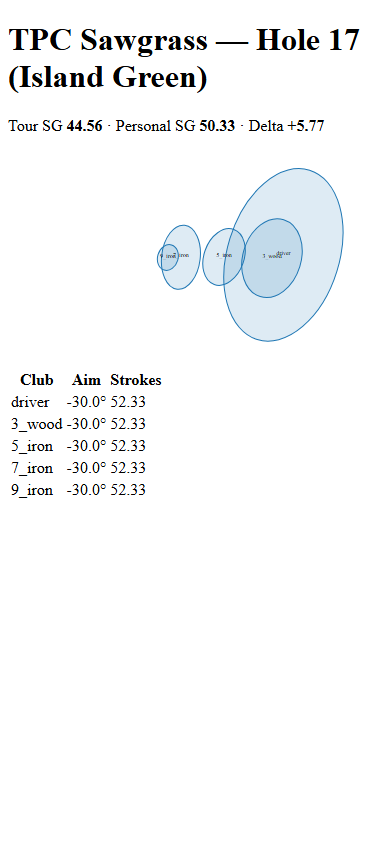
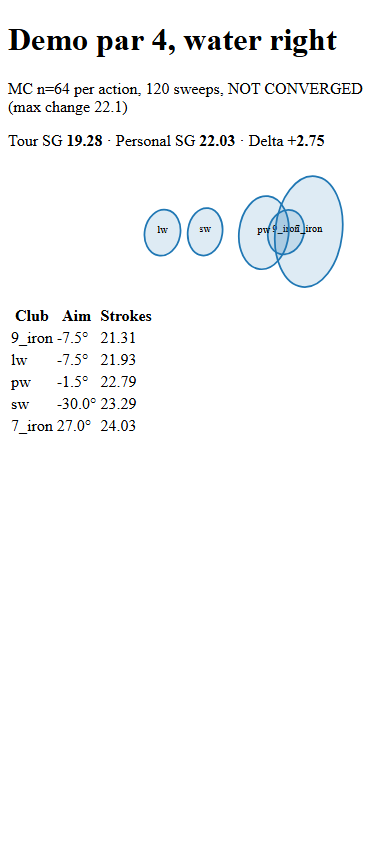
feat(sg): green-terminal solve and convergence line in the strategy view (#14572)

Changed region(s): [[0.0, 0.0308, 0.9231, 0.4313], [0.0308, 0.3697, 0.4, 0.5853]]

diff --git a/src/shared/python/sg_optimizer/strategy_view.py b/src/shared/python/sg_optimizer/strategy_view.py
@@ -5,6 +5,7 @@ from __future__ import annotations
 import html
 from dataclasses import dataclass
 
+from src.shared.python.sg_optimizer.mdp.value_iteration import SolveResult
 from src.shared.python.sg_optimizer.shot_model.outcome import ShotOutcomeModel
 from src.shared.python.sg_optimizer.shot_model.player_profile import PlayerProfile
 from src.shared.python.sg_optimizer.shot_options import ShotOption, shot_options
@@ -13,6 +14,9 @@ from src.shared.python.sg_optimizer.strategy import (
     StrategyProblem,
     solve_mdp,
 )
+
+
+_SOLVE_TOL = 1e-3  # HoleMDP.solve default tolerance
 
 
 @dataclass(frozen=True)
@@ -27,6 +31,10 @@ class StrategyView:
     tour_strokes: float
     personal_strokes: float | None
     options: tuple[ShotOption, ...]
+    n_samples: int = 0
+    iterations: int = 0
+    residual: float = 0.0
+    converged: bool = True
 
     @property
     def delta(self) -> float | None:
@@ -48,15 +56,34 @@ def build_view(
 ) -> StrategyView:
     """Solve the tour baseline and (unless ``quick_tour``) the player."""
     tour = PlayerProfile(name="tour", baseline=profile.baseline)
-    t_mdp, t_val = solve_mdp(problem, tour, None, settings)
-    tour_strokes = t_mdp.expected_strokes(problem.start, t_val)
+    t_mdp, t_res = solve_mdp(problem, tour, None, settings)
+    tour_strokes = t_mdp.expected_strokes(problem.start, t_res.value)
     if quick_tour:
-        opts = shot_options(t_mdp, t_val, problem.start, top=top)
-        return StrategyView(hole, tour_strokes, None, opts)
-    p_mdp, p_val = solve_mdp(problem, profile, model, settings)
-    opts = shot_options(p_mdp, p_val, problem.start, model=model, top=top)
+        opts = shot_options(t_mdp, t_res.value, problem.start, top=top)
+        return _view(hole, tour_strokes, None, opts, t_res, settings)
+    p_mdp, p_res = solve_mdp(problem, profile, model, settings)
+    opts = shot_options(p_mdp, p_res.value, problem.start, model=model, top=top)
+    personal = p_mdp.expected_strokes(problem.start, p_res.value)
+    return _view(hole, tour_strokes, personal, opts, p_res, settings)
+
+
+def _view(
+    hole: str,
+    tour: float,
+    personal: float | None,
+    options: tuple[ShotOption, ...],
+    result: SolveResult,
+    settings: SolveSettings,
+) -> StrategyView:
     return StrategyView(
-        hole, tour_strokes, p_mdp.expected_strokes(problem.start, p_val), opts
+        hole,
+        tour,
+        personal,
+        options,
+        n_samples=settings.n_samples,
+        iterations=result.iterations,
+        residual=result.delta,
+        converged=result.delta < _SOLVE_TOL,
     )
 
 
@@ -70,12 +97,21 @@ def _numbers(view: StrategyView) -> tuple[str, str, str]:
     return f"{view.tour_strokes:.2f}", personal, delta
 
 
+def _solve_note(view: StrategyView) -> str:
+    state = "converged" if view.converged else "NOT CONVERGED"
+    return (
+        f"MC n={view.n_samples} per action, {view.iterations} sweeps, "
+        f"{state} (max change {view.residual:.3g})"
+    )
+
+
 def render_text(view: StrategyView) -> str:
     """Plain-text report for the CLI."""
     tour, personal, delta = _numbers(view)
     lines = [
         f"Hole: {view.hole}",
         f"Expected strokes  tour: {tour}   personal: {personal}   delta: {delta}",
+        _solve_note(view),
         "",
         f"{'club':<10}{'aim':>7}{'strokes':>9}{'carry':>8}{'95% long':>10}{'95% wide':>10}",
     ]
@@ -110,7 +146,7 @@ def render_html(view: StrategyView) -> str:
     return (
         "<!doctype html><meta charset='utf-8'><meta name='viewport' content='width=device-width'>"
         f"<title>Strategy: {html.escape(view.hole)}</title>"
-        f"<h1>{html.escape(view.hole)}</h1>"
+        f"<h1>{html.escape(view.hole)}</h1><p>{html.escape(_solve_note(view))}</p>"
         f"<p>Tour SG <b>{tour}</b> &middot; Personal SG <b>{personal}</b> &middot; Delta <b>{delta}</b></p>"
         f"<svg viewBox='-10 {-span:.0f} {reach + 20:.0f} {2 * span:.0f}' width='100%' "
         f"role='img' aria-label='Dispersion ellipses'>{shapes}</svg>"

diff --git a/tests/unit/sg_optimizer/test_strategy_view.py b/tests/unit/sg_optimizer/test_strategy_view.py
@@ -23,6 +23,7 @@ from src.shared.python.sg_optimizer.strategy import (
     SolveSettings,
     StrategyProblem,
     compare_strategies,
+    green_terminal,
     solve_mdp,
 )
 from src.shared.python.sg_optimizer.strategy_view import (
@@ -87,7 +88,8 @@ def test_ellipse_rejects_bad_coverage_and_single_sample() -> None:
 
 
 def test_action_values_argmin_is_the_optimal_action() -> None:
-    mdp, value = solve_mdp(_problem(), _profile(), None, CFG)
+    mdp, res = solve_mdp(_problem(), _profile(), None, CFG)
+    value = res.value
     q = mdp.action_values(_problem().start, value)
     best = min(q, key=lambda av: av[1])[0]
     assert best == mdp.optimal_action(_problem().start, value)
@@ -95,7 +97,8 @@ def test_action_values_argmin_is_the_optimal_action() -> None:
 
 def test_shot_options_one_per_club_sorted_best_first() -> None:
     prob = _problem()
-    mdp, value = solve_mdp(prob, _profile(), None, CFG)
+    mdp, res = solve_mdp(prob, _profile(), None, CFG)
+    value = res.value
     opts = shot_options(mdp, value, prob.start, top=5)
     assert [o.club for o in opts].count("driver") == 1
     assert len(opts) == 2
@@ -107,7 +110,8 @@ def test_shot_options_one_per_club_sorted_best_first() -> None:
 
 def test_driver_ellipse_is_larger_than_wedge_ellipse() -> None:
     prob = _problem()
-    mdp, value = solve_mdp(prob, _profile(), None, CFG)
+    mdp, res = solve_mdp(prob, _profile(), None, CFG)
+    value = res.value
     by_club = {o.club: o for o in shot_options(mdp, value, prob.start, top=5)}
     assert by_club["driver"].ellipse.semi_major > by_club["pw"].ellipse.semi_major
     assert by_club["driver"].ellipse.centre_along > by_club["pw"].ellipse.centre_along
@@ -140,3 +144,24 @@ def test_text_and_html_show_both_numbers_and_ellipses() -> None:
     assert "tour" in text.lower() and "personal" in text.lower()
     assert html.count("<ellipse") == len(view.options)
     assert view.options[0].club in html
+
+
+def test_green_terminal_ends_the_hole_on_every_green_cell_only() -> None:
+    raster = _problem().raster
+    codes = raster.codes.copy()
+    codes[10:14, 10:14] = LIE_CODES["green"]
+    src = LieRaster(codes, raster.resolution_yd, raster.origin, raster.pin, raster.tee)
+    out = green_terminal(src)
+    holed = LIE_CODES["holed"]
+    assert np.all(out.codes[10:14, 10:14] == holed)
+    assert np.sum(out.codes == holed) == np.sum(src.codes == holed) + 16
+    assert np.sum(out.codes != src.codes) == 16
+    assert src.codes[10, 10] == LIE_CODES["green"]  # input untouched
+
+
+def test_view_states_sample_count_and_convergence() -> None:
+    view = build_view("synthetic", _problem(), _profile(), settings=CFG)
+    assert view.n_samples == CFG.n_samples and 0 < view.iterations <= CFG.max_iter
+    assert "MC n=24" in render_text(view)
+    assert view.converged == (view.residual < 1e-3)
+    assert ("NOT CONVERGED" in render_text(view)) == (not view.converged)

diff --git a/src/shared/python/sg_optimizer/strategy.py b/src/shared/python/sg_optimizer/strategy.py
@@ -8,10 +8,10 @@ import numpy as np
 from numpy.typing import NDArray
 
 from src.shared.python.sg_optimizer.course.conditions import CourseConditions
-from src.shared.python.sg_optimizer.course.rasterize import LieRaster
+from src.shared.python.sg_optimizer.course.rasterize import LIE_CODES, LieRaster
 from src.shared.python.sg_optimizer.mdp.action import ActionSet, ShotAction
 from src.shared.python.sg_optimizer.mdp.state import State
-from src.shared.python.sg_optimizer.mdp.value_iteration import HoleMDP
+from src.shared.python.sg_optimizer.mdp.value_iteration import HoleMDP, SolveResult
 from src.shared.python.sg_optimizer.shot_model.baseline import BaselineBag
 from src.shared.python.sg_optimizer.shot_model.outcome import ShotOutcomeModel
 from src.shared.python.sg_optimizer.shot_model.player_profile import PlayerProfile
@@ -52,13 +52,26 @@ class SolveSettings:
     max_iter: int = 200
 
 
+def green_terminal(raster: LieRaster) -> LieRaster:
+    """Copy of ``raster`` where every green cell ends the hole.
+
+    The MDP has no putting model, so with only the pin cell terminal the
+    expected strokes do not converge. Ending on the green gives *strokes to
+    reach the green*, which converges and still ranks tee shots by their
+    hazard and dispersion risk; add putting separately.
+    """
+    codes = raster.codes.copy()
+    codes[codes == LIE_CODES["green"]] = LIE_CODES["holed"]
+    return LieRaster(codes, raster.resolution_yd, raster.origin, raster.pin, raster.tee)
+
+
 def solve_mdp(
     problem: StrategyProblem,
     profile: PlayerProfile,
     model: ShotOutcomeModel | None,
     cfg: SolveSettings,
-) -> tuple[HoleMDP, NDArray[np.float64]]:
-    """Solve the hole for ``profile``; return the MDP and its value function."""
+) -> tuple[HoleMDP, SolveResult]:
+    """Solve the hole for ``profile``; return the MDP and its solve result."""
     mdp = HoleMDP(
         problem.raster,
         profile,
@@ -69,7 +82,7 @@ def solve_mdp(
         cfg.seed,
         model=model,
     )
-    return mdp, mdp.solve(max_iter=cfg.max_iter).value
+    return mdp, mdp.solve(max_iter=cfg.max_iter)
 
 
 def _solve(
@@ -79,6 +92,7 @@ def _solve(
     cfg: SolveSettings,
 ) -> tuple[float, ShotAction]:
     mdp, value = solve_mdp(problem, profile, model, cfg)
+    value = value.value
     return (
         mdp.expected_strokes(problem.start, value),
         mdp.optimal_action(problem.start, value),

diff --git a/src/shared/python/sg_optimizer/strategy_cli.py b/src/shared/python/sg_optimizer/strategy_cli.py
@@ -11,7 +11,11 @@ from src.shared.python.sg_optimizer.mdp.action import default_action_set
 from src.shared.python.sg_optimizer.mdp.state import State
 from src.shared.python.sg_optimizer.shot_model.baseline import load_baseline
 from src.shared.python.sg_optimizer.shot_model.player_profile import PlayerProfile
-from src.shared.python.sg_optimizer.strategy import SolveSettings, StrategyProblem
+from src.shared.python.sg_optimizer.strategy import (
+    SolveSettings,
+    StrategyProblem,
+    green_terminal,
+)
 from src.shared.python.sg_optimizer.strategy_view import (
     build_view,
     render_html,
@@ -37,6 +41,12 @@ def add_strategy_parser(subparsers: argparse._SubParsersAction) -> None:
         action="store_true",
         help="tour baseline only: skip the personalised solve",
     )
+    p.add_argument(
+        "--pin-only",
+        action="store_true",
+        help="end the hole only at the pin cell (default: any green cell, i.e. "
+        "strokes to reach the green; the pin-only solve does not converge)",
+    )
     p.add_argument("--html", metavar="PATH", help="also write the HTML/SVG view")
     hole = p.add_mutually_exclusive_group(required=True)
     hole.add_argument("--hole-spec")
@@ -57,6 +67,8 @@ def run_strategy(args: argparse.Namespace) -> int:
         else _classic_to_synthetic(args.classic)
     )
     raster = rasterize_synthetic(hole, resolution_yd=args.resolution)
+    if not args.pin_only:
+        raster = green_terminal(raster)
     baseline = load_baseline(args.baseline)
     problem = StrategyProblem(
         raster,
